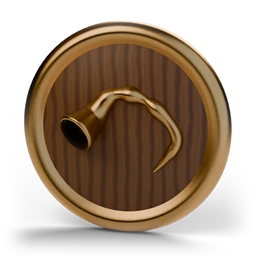
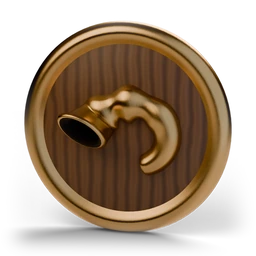
Art: thicker shofar relief on the «Праздники» medallion

diff --git a/assets/3d/scripts/emblem_prazdniki.py b/assets/3d/scripts/emblem_prazdniki.py
@@ -1,5 +1,5 @@
-"""Emblem: a ram's horn. Crescent body, flared bell with a dark mouth,
-thin mouthpiece, growth ridges. Not a curved arrow."""
+"""Emblem: a ram's horn. Thick crescent, flared bell with a dark oval
+mouth, blunt mouthpiece, growth ridges. Not a curved arrow."""
 
 import math
 import os
@@ -13,58 +13,88 @@ import common
 import emblemkit
 
 SIDES = 22
-N_BODY = 48
-# Mouthpiece -> bell. The crescent stays in the face of the coin. The last
-# step also comes toward the camera, so the flared mouth is an oval on the
-# end of the horn rather than a ring floating beside it.
-WAY = [
-    Vector((0.28, 0.02, -0.52)),   # thin mouthpiece, low
-    Vector((0.55, 0.03, -0.12)),   # sweep out to the right
-    Vector((0.22, 0.04, 0.28)),    # up and back toward the left
-    Vector((-0.18, 0.04, 0.36)),   # top of the crescent
-    Vector((-0.42, 0.02, 0.10)),   # wide end, still on the face
-    Vector((-0.56, -0.20, -0.06)), # bell mouth: onward, and toward the camera
-]
+N_BODY = 56
+# Smooth crescent in the face of the coin. t = 0 is the mouthpiece,
+# t = 1 is the bell. The arc is wide enough that a thick tube does not
+# fold through itself. The last part of the path turns toward the camera
+# so the flared mouth is an oval on the end of the horn.
+_CX, _CZ = -0.02, -0.02
+_RX, _RZ = 0.56, 0.50
+_A0 = math.radians(-68.0)
+_A1 = math.radians(168.0)
+
+
+def _arc(t):
+    """Arc progress, angle, and centre. Progress eases off at the bell."""
+    t = min(max(t, 0.0), 1.0)
+    s = t * (2.0 - t)
+    ang = _A0 + (_A1 - _A0) * s
+    # The centreline opens slightly toward the bell, like a horn, not a circle.
+    grow = 1.0 + 0.20 * s
+    y = 0.040
+    if t > 0.68:
+        u = (t - 0.68) / 0.32
+        u = u * u * (3.0 - 2.0 * u)
+        y = 0.040 + (-0.22 - 0.040) * (u ** 0.80)
+    c = Vector((
+        _CX + _RX * grow * math.cos(ang),
+        y,
+        _CZ + _RZ * grow * math.sin(ang),
+    ))
+    outward = Vector((math.cos(ang), 0.0, math.sin(ang)))
+    return c, outward
 
 
 def _center(t):
-    """Catmull-Rom through WAY. t = 0 at the mouthpiece, 1 at the bell."""
-    n = len(WAY)
-    seg = min(max(t, 0.0), 1.0) * (n - 1)
-    i = min(int(seg), n - 2)
-    u = seg - i
-    p0 = WAY[max(i - 1, 0)]
-    p1 = WAY[i]
-    p2 = WAY[min(i + 1, n - 1)]
-    p3 = WAY[min(i + 2, n - 1)]
-    u2 = u * u
-    u3 = u2 * u
-    return 0.5 * (
-        (2.0 * p1)
-        + (-p0 + p2) * u
-        + (2.0 * p0 - 5.0 * p1 + 4.0 * p2 - p3) * u2
-        + (-p0 + 3.0 * p1 - 3.0 * p2 + p3) * u3
-    )
+    c, _out = _arc(t)
+    return c
 
 
-def _radius(t, ridges=True):
-    """Pointed mouthpiece, thick body, then a wide cup. Not a linear arrow taper."""
-    if t < 0.12:
-        u = t / 0.12
-        r = 0.022 + 0.040 * (u ** 0.85)
+def _halfwidth(t, ridges=True):
+    """In-plane half-width. Blunt mouthpiece, thick shank, wide bell.
+
+    Model units, before fit_xz. The tip stays a large fraction of the shank
+    so it reads as a mouthpiece. The bell is sized so that, after
+    fit_xz(0.70 * disc), its opening is about 35% of the inner field.
+    """
+    mouth, shank, bell = 0.195, 0.305, 0.460
+    flare = 0.55
+    if t < flare:
+        u = (t / flare) ** 0.65
+        w = mouth + (shank - mouth) * u
     else:
-        u = (t - 0.12) / 0.88
-        # Body stays thick; the flare is only the last quarter.
-        # Hold a thick body, then open into the cup.
-        r = 0.080 + 0.030 * (u ** 0.75)
-        if u > 0.55:
-            f = (u - 0.55) / 0.45
-            r += 0.155 * (f ** 1.1)
-    # Coarse growth rings. Few, deep, so they survive the medallion's small size.
-    if ridges and 0.20 < t < 0.70:
-        fade = math.sin((t - 0.20) / 0.50 * math.pi)
-        r *= 1.0 + 0.26 * math.sin(t * math.pi * 13.0) * fade
-    return r
+        u = ((t - flare) / (1.0 - flare)) ** 1.08
+        w = shank + (bell - shank) * u
+    if ridges and 0.18 < t < 0.76:
+        fade = math.sin((t - 0.18) / 0.58 * math.pi)
+        w *= 1.0 + 0.20 * math.sin(t * math.pi * 10.0) * fade
+    return w
+
+
+def _halfdepth(t, ridges=True):
+    """Roundness of the tube. Close to the in-plane width on the shank,
+    a bit smaller at the bell so the mouth stays oval.
+
+    Kept in check so the horn stands proud of the field without a spike.
+    """
+    w = _halfwidth(t, ridges=False)
+    u = max(0.0, min(1.0, (t - 0.62) / 0.38))
+    u = u * u * (3.0 - 2.0 * u)
+    d = 0.150 + (w * 0.62 - 0.150) * u
+    if ridges and 0.18 < t < 0.76:
+        fade = math.sin((t - 0.18) / 0.58 * math.pi)
+        d *= 1.0 + 0.14 * math.sin(t * math.pi * 10.0) * fade
+    return d
+
+
+def _flare_shift(t):
+    """How far the section centre moves outward as the bell opens.
+
+    The extra width grows away from the crescent, so the mouth stays wide
+    without swallowing the inner curve.
+    """
+    extra = max(0.0, _halfwidth(t, ridges=False) - 0.305)
+    return extra * 0.75
 
 
 def _rot(v, axis, ang):
@@ -108,11 +138,16 @@ def _ring(c, nrm, bn, rx, ry):
 
 def _build_horn(metal, bore):
     ts = [i / (N_BODY - 1) for i in range(N_BODY)]
-    pts = [_center(t) for t in ts]
+    arcs = [_arc(t) for t in ts]
+    pts = [c for c, _o in arcs]
+    outwards = [o for _c, o in arcs]
     tang, normals, binorms = _frames(pts)
 
     verts, faces, fmats = [], [], []
     rings = []
+
+    def place(i, t):
+        return pts[i] + outwards[i] * _flare_shift(t)
 
     def add_ring(samples):
         idx = len(verts)
@@ -130,15 +165,17 @@ def _build_horn(metal, bore):
                 faces.append((a + j, a + j2, b + j2, b + j))
             fmats.append(mat)
 
-    # Rounded point, not a triangular arrowhead. A short dome on the thin end.
-    r0 = _radius(0.0)
+    # Shallow dome. Radius stays near the full mouthpiece so the end is
+    # a rounded nub, not a point.
+    rd0 = _halfdepth(0.0)
+    rw0 = _halfwidth(0.0)
     for k in range(1, 5):
-        f = k / 5.0
-        c = pts[0] - tang[0] * (r0 * 0.95 * (1.0 - f))
-        add_ring(_ring(c, normals[0], binorms[0], r0 * f, r0 * f * 0.92))
+        f = 0.88 + 0.12 * (k / 5.0)
+        c = place(0, 0.0) - tang[0] * (min(rd0, rw0) * 0.28 * (1.0 - k / 5.0))
+        add_ring(_ring(c, normals[0], binorms[0], rd0 * f, rw0 * f))
         if len(rings) > 1:
             stitch(rings[-2], rings[-1], 0)
-    tip_c = pts[0] - tang[0] * (r0 * 1.05)
+    tip_c = place(0, 0.0) - tang[0] * (min(rd0, rw0) * 0.32)
     ci = len(verts)
     verts.append(tuple(tip_c))
     a0 = rings[0]
@@ -148,35 +185,40 @@ def _build_horn(metal, bore):
         fmats.append(0)
 
     for i, t in enumerate(ts):
-        r = _radius(t)
-        # Slightly oval so the tube has a horn section, still round in the round.
-        add_ring(_ring(pts[i], normals[i], binorms[i], r, r * 0.90))
+        c = place(i, t)
+        add_ring(_ring(c, normals[i], binorms[i], _halfdepth(t), _halfwidth(t)))
         stitch(rings[-2], rings[-1], 0)
 
     # Lip curls from the flare into the bore. The inner half is the dark mouth.
     bi = N_BODY - 1
-    r_out = _radius(1.0, ridges=False)
-    r_in = r_out * 0.76
+    rd_out = _halfdepth(1.0, ridges=False)
+    rw_out = _halfwidth(1.0, ridges=False)
+    rd_in = rd_out * 0.70
+    rw_in = rw_out * 0.70
     for k in range(1, 7):
         ang = math.pi * k / 6.0
-        r = (r_out + r_in) * 0.5 + (r_out - r_in) * 0.5 * math.cos(ang)
-        c = pts[bi] + tang[bi] * (0.028 * math.sin(ang))
-        add_ring(_ring(c, normals[bi], binorms[bi], r, r * 0.90))
+        rd = (rd_out + rd_in) * 0.5 + (rd_out - rd_in) * 0.5 * math.cos(ang)
+        rw = (rw_out + rw_in) * 0.5 + (rw_out - rw_in) * 0.5 * math.cos(ang)
+        c = place(bi, 1.0) + tang[bi] * (0.050 * math.sin(ang))
+        add_ring(_ring(c, normals[bi], binorms[bi], rd, rw))
         mat = 0 if ang < math.pi * 0.55 else 1
         stitch(rings[-2], rings[-1], mat)
 
     # Short bore so the bell reads as a hollow oval, not a solid cap.
     last_t = 1.0
     for k in range(1, 9):
-        t = 1.0 - 0.20 * k / 8.0
+        t = 1.0 - 0.18 * k / 8.0
         fi = max(0, min(N_BODY - 1, int(round(t * (N_BODY - 1)))))
-        r = _radius(t, ridges=False) * 0.74
-        c = _center(t)
-        add_ring(_ring(c, normals[fi], binorms[fi], r, r * 0.90))
+        c = place(fi, t)
+        add_ring(_ring(
+            c, normals[fi], binorms[fi],
+            _halfdepth(t, ridges=False) * 0.68,
+            _halfwidth(t, ridges=False) * 0.68,
+        ))
         stitch(rings[-2], rings[-1], 1)
         last_t = t
     fi = max(0, min(N_BODY - 1, int(round(last_t * (N_BODY - 1)))))
-    end_c = _center(last_t) - tang[fi] * 0.04
+    end_c = place(fi, last_t) - tang[fi] * 0.05
     ci = len(verts)
     verts.append(tuple(end_c))
     a1 = rings[-1]
@@ -218,7 +260,22 @@ def build():
     objs, metal, _accent = emblemkit.medallion()
     horn = _build_horn(metal, _bore_mat())
     syms = [horn]
-    emblemkit.fit_xz(syms, 0.58)
+    # Long side of the horn ~70% of the inner-field diameter.
+    emblemkit.fit_xz(syms, emblemkit.DISC_R * 0.70)
+    bpy.context.view_layer.update()
+    mw = horn.matrix_world
+    # One ring per station, in world XZ, to see which axis is the silhouette.
+    ts = [i / (N_BODY - 1) for i in range(N_BODY)]
+    arcs = [_arc(t) for t in ts]
+    pts = [c for c, _o in arcs]
+    tang, normals, binorms = _frames(pts)
+    for t in (0.0, 0.12, 0.28, 0.5, 0.75, 1.0):
+        i = int(round(t * (N_BODY - 1)))
+        c = pts[i] + arcs[i][1] * _flare_shift(t)
+        ring = _ring(c, normals[i], binorms[i], _halfdepth(t, False), _halfwidth(t, False))
+        world = [mw @ p for p in ring]
+        xs = [p.x for p in world]; zs = [p.z for p in world]; ys = [p.y for p in world]
+        print(f"t={t:.2f} XZ {max(xs)-min(xs):.3f}x{max(zs)-min(zs):.3f} Y {min(ys):.3f}..{max(ys):.3f} ny={normals[i].y:.2f} by={binorms[i].y:.2f}")
     objs.extend(syms)
     emblemkit.finish(objs, "prazdniki")
 

diff --git a/docs/ART-OBJECTS.md b/docs/ART-OBJECTS.md
@@ -13,7 +13,7 @@ python3 tools/contact_sheet.py ../img /tmp/sheet.webp
 
 | Folder | Files | Variants |
 |---|---|---|
-| `assets/img/objects/` | 20 ritual objects | one look (works on both themes) |
+| `assets/img/objects/` | 21 procedural objects | one look (works on both themes) |
 | `assets/img/icons/` | 8 sidebar icons | `-wood`, `-leather`, each `-hover` |
 | `assets/img/emblems/` | 8 section medallions | `-wood`, `-leather` |
 | `assets/img/decor/` | divider, corner, seal, bookmark | `-wood`, `-leather` |
